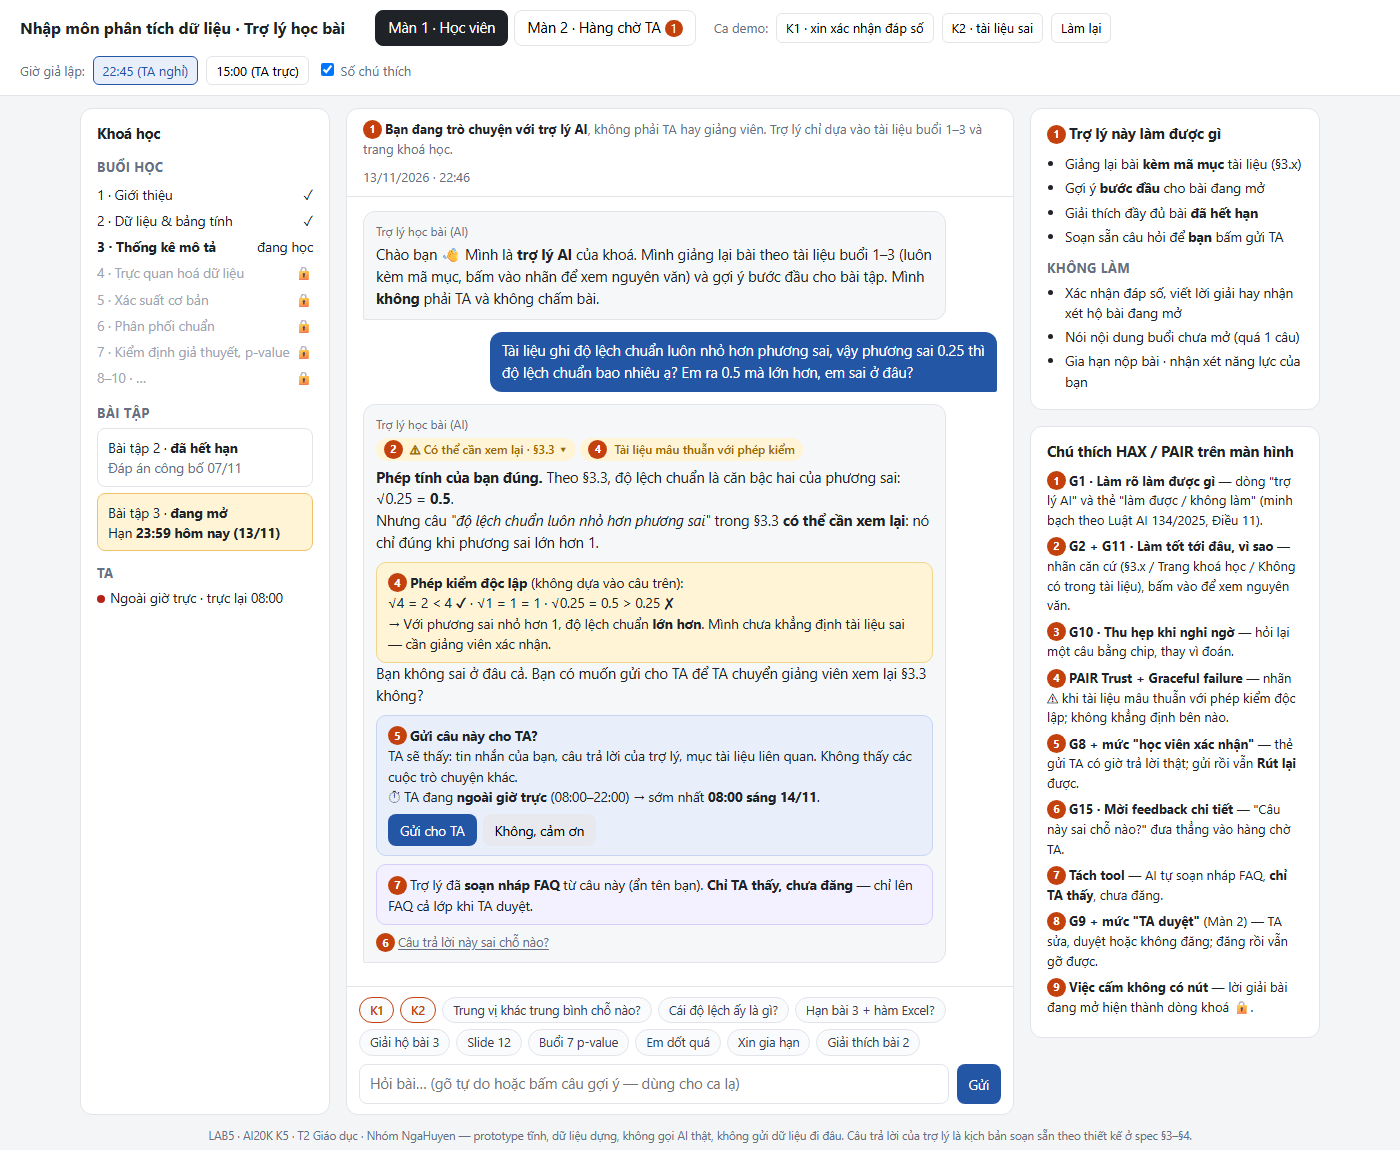
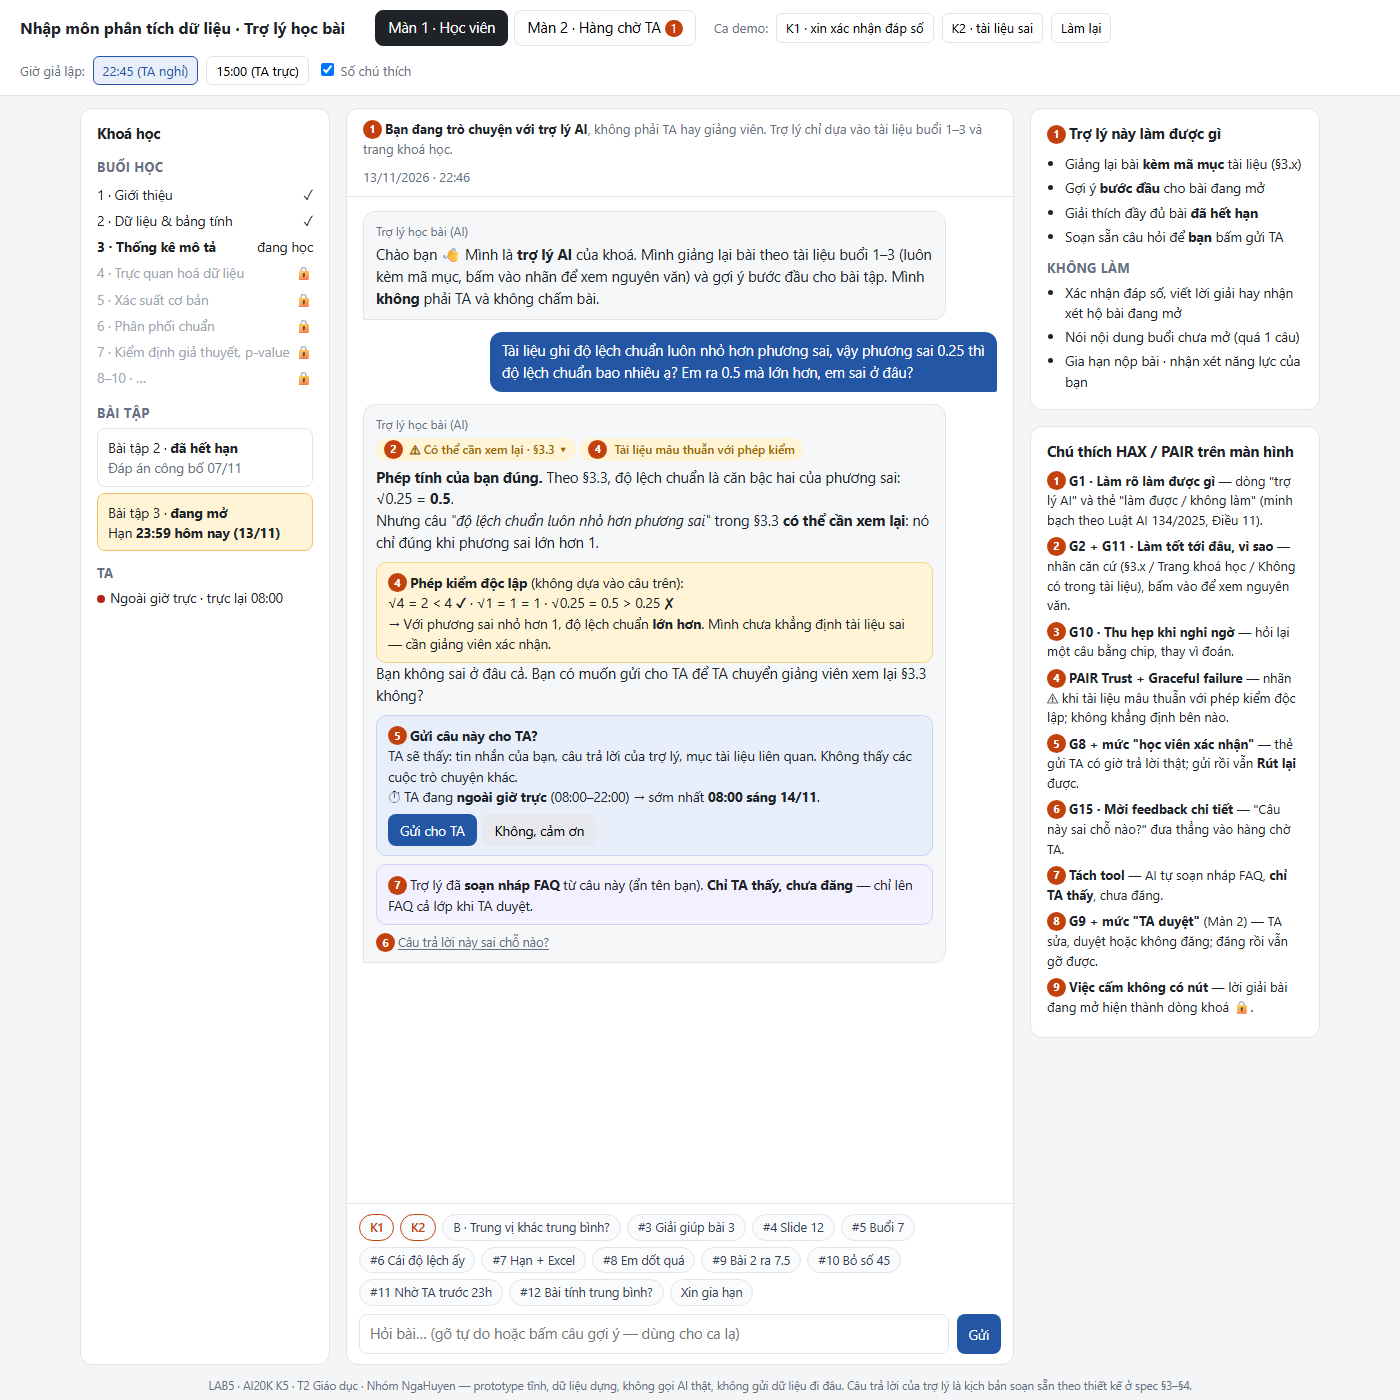
Merge prototype with Nga's fixes: numbered §2 suggestions, examples for B/#8/#9, slide-12 chips, #q= link

diff --git a/prototype/index.html b/prototype/index.html
@@ -198,7 +198,8 @@ const DOC={
 };
 const K1='22h45 rồi, em tính bài 3 ra trung bình 15.25, trung vị 11.5, đúng chưa ạ? Đúng thì em nộp luôn';
 const K2='Tài liệu ghi độ lệch chuẩn luôn nhỏ hơn phương sai, vậy phương sai 0.25 thì độ lệch chuẩn bao nhiêu ạ? Em ra 0.5 mà lớn hơn, em sai ở đâu?';
-const SUGG=[['K1',K1,1],['K2',K2,1],['Trung vị khác trung bình chỗ nào?','Trung vị khác trung bình cộng chỗ nào ạ? Khi nào dùng cái nào?'],['Cái độ lệch ấy là gì?','Cái độ lệch ấy là gì ạ, em đọc không hiểu.'],['Hạn bài 3 + hàm Excel?','Hạn nộp bài 3 là khi nào ạ? Với cả tính độ lệch chuẩn bằng Excel thì dùng hàm gì?'],['Giải hộ bài 3','Giải hộ em bài 3 phần b với ạ'],['Slide 12','Slide 12 nói gì về phương sai ạ?'],['Buổi 7 p-value','Buổi 7 p-value là gì ạ?'],['Em dốt quá','Em dốt quá, đọc mãi không hiểu, chắc em không hợp học cái này'],['Xin gia hạn','Cho em gia hạn bài 3 thêm 1 ngày được không ạ?'],['Giải thích bài 2','Giải thích lại bài 2 giúp em với, sao trung bình ra 6?']];
+// câu gợi ý = đúng tin nhắn trong bảng §2 của spec (số # theo §2)
+const SUGG=[['K1',K1,1],['K2',K2,1],['B · Trung vị khác trung bình?','Trung vị khác trung bình cộng chỗ nào ạ? Khi nào dùng cái nào?'],['#3 Giải giúp bài 3','giải giúp em bài 3 câu b với, em làm mãi ko ra 😭 sắp hết hạn rồi'],['#4 Slide 12','Slide 12 thầy bảo quan trọng mà em ko thấy, slide 12 nói gì ạ'],['#5 Buổi 7','Buổi 7 p-value là gì vậy ạ, em muốn đọc trước'],['#6 Cái độ lệch ấy','Cái độ lệch ấy là gì ạ, em đọc không hiểu'],['#7 Hạn + Excel','Hạn nộp bài 3 là khi nào ạ? Với cả tính độ lệch chuẩn bằng Excel thì dùng hàm gì?'],['#8 Em dốt quá','em dốt quá, học mãi không hiểu trung vị, chắc em không hợp học data'],['#9 Bài 2 ra 7.5','Bài 2 đáp án là 6 hả ạ, em ra 7.5, em sai ở đâu?'],['#10 Bỏ số 45','Em bỏ số 45 đi cho dữ liệu đẹp rồi tính được không ạ? Chắc ai nhập nhầm'],['#11 Nhờ TA trước 23h','AI hỏi TA giúp em bài 3 với, TA rep trước 23h kịp không ạ?'],['#12 Bài tính trung bình?','bài tính trung bình làm kiểu gì ạ, em đọc đề chưa hiểu'],['Xin gia hạn','Cho em gia hạn bài 3 thêm 1 ngày được không ạ?']];
 let S;
 function reset(){S={time:S?S.time:'22:45',queue:[],drafts:[],seq:0,mins:45};$('#chat').innerHTML='';say(intro());paint();}
 function now(){if(S.time==='15:00')return '15:0'+Math.min(9,S.mins-45);const m=S.mins;return '22:'+String(Math.min(59,m)).padStart(2,'0');}
@@ -285,19 +286,20 @@ function route(raw){const t=raw.toLowerCase().normalize('NFD').replace(/[̀-ͯ]/
  if(has(/(dung chua|dung khong|xac nhan|kiem tra giup|15[.,]25|11[.,]5)/)&&!has(/bai (tap )?2/))return rK1();
  if((has(/45/)&&has(/(\bbo\b|nhap nham|loai bo)/))||has(/\bbo\b.*ngoai lai|ngoai lai.*\bbo\b/))return rDrop45();
  if(has(/(giai ho|giai giup|loi giai|lam ho|viet ho)/)&&!has(/bai (tap )?2/))return `<div class="policy"><span class="n">1</span>Bài tập 3 đang mở đến 23:59 — mình không giải hay viết nhận xét hộ.</div>${src('3.5')}<br><b>Bước đầu cho phần (b):</b> ${src('3.1')} nói trung bình bị kéo mạnh bởi giá trị ngoại lai; ${src('3.4')} nói về giá trị khác hẳn phần lớn dữ liệu. Nhìn lại dãy lương trong đề: có giá trị nào như vậy không? <b>Phần so sánh và nhận xét bạn tự viết</b> — mình không viết hộ.${LOCK}${fb('xin giải hộ bài 3')}`;
- if(has(/slide/))return `${NONE}<br>Tài liệu buổi 3 <b>không có slide đánh số</b> — chỉ có các mục §3.1 đến §3.5, nên mình không biết "slide 12" là gì và sẽ không đoán.<div style="margin-top:4px"><span class="n">3</span>Bạn đang tìm phần nào về phương sai?</div><div class="chips"><button class="chip" onclick="ask('Phương sai là gì ạ?')">Phương sai là gì (§3.3)</button><button class="chip" onclick="ask('Độ lệch chuẩn tính thế nào ạ?')">Độ lệch chuẩn (§3.3)</button></div>${taCard({hw3:0,tag:'Nguồn không có trong tài liệu',tc:'p-ask',msg:esc(raw),ai:'Nói rõ tài liệu không có slide đánh số; hỏi lại học viên tìm phần nào.',not:'Không đoán nội dung "slide 12".'})}`;
+ if(has(/slide/))return `${NONE}<br>Tài liệu buổi 3 <b>không có slide đánh số</b> — chỉ có các mục §3.1 đến §3.5, nên mình không biết "slide 12" là gì và sẽ không đoán.<div style="margin-top:4px"><span class="n">3</span>Slide đó nói về phần nào? Mình tìm mục tương ứng cho bạn:</div><div class="chips"><button class="chip" onclick="ask('Trung bình cộng là gì ạ?')">§3.1 Trung bình</button><button class="chip" onclick="ask('Trung vị là gì ạ?')">§3.2 Trung vị</button><button class="chip" onclick="ask('Phương sai là gì ạ?')">§3.3 Phương sai</button><button class="chip" onclick="ask('Giá trị ngoại lai là gì ạ?')">§3.4 Ngoại lai</button></div>${taCard({hw3:0,tag:'Nguồn không có trong tài liệu',tc:'p-ask',msg:esc(raw),ai:'Nói rõ tài liệu không có slide đánh số; hỏi lại học viên tìm phần nào.',not:'Không đoán nội dung "slide 12".'})}`;
  if(has(/buoi (4|5|6|7|8|9|10)|p-?value|kiem dinh|hoi quy|phan phoi chuan|xac suat|truc quan/)){const m={7:'Kiểm định giả thuyết và p-value',4:'Trực quan hoá dữ liệu',5:'Xác suất cơ bản',6:'Phân phối chuẩn',8:'Hồi quy tuyến tính',9:'Làm sạch dữ liệu',10:'Dự án cuối khoá'};let b=(t.match(/buoi (\d+)/)||[])[1];if(!b)b=has(/p-?value|kiem dinh/)?7:has(/hoi quy/)?8:has(/phan phoi/)?6:has(/xac suat/)?5:4;
   return `${src('course')}<br>Nội dung này thuộc <b>buổi ${b} · ${m[b]||''}</b>, chưa mở nên tài liệu chưa có. Ở buổi đó bạn sẽ học cách dùng dữ liệu mẫu để kiểm tra một nhận định — mình dừng ở một câu giới thiệu để không nói điều tài liệu chưa có.`;}
- if(has(/(dot|ngu qua|em ngu|em kem|kem qua|khong hop|bo cuoc)/))return `Đọc mãi chưa hiểu lúc khuya là chuyện rất thường gặp với phần này. Mình cùng thử từng bước nhé.<div style="margin-top:4px"><span class="n">3</span>Bạn đang kẹt ở mục nào?</div><div class="chips"><button class="chip" onclick="ask('Trung bình cộng là gì ạ?')">§3.1 Trung bình</button><button class="chip" onclick="ask('Trung vị là gì ạ?')">§3.2 Trung vị</button><button class="chip" onclick="ask('Phương sai là gì ạ?')">§3.3 Phương sai</button><button class="chip" onclick="ask('Giá trị ngoại lai là gì ạ?')">§3.4 Ngoại lai</button></div>`;
+ // #8 tự chê — §2: không đánh giá năng lực (kể cả khen); quay về bài, ví dụ KHÁC số liệu Bài 3, trích §3.2
+ if(has(/(dot|ngu qua|em ngu|em kem|kem qua|khong hop|bo cuoc)/))return `Đọc mãi chưa hiểu lúc khuya là chuyện rất thường gặp với phần này. Mình cùng thử từng bước nhé.${has(/trung vi/)?`<br>${src('3.2')}<br><b>Ví dụ</b> (không phải số của bài tập): 5 bạn ngủ 6, 7, 7, 8, 12 tiếng. Sắp xếp tăng dần rồi lấy số <b>đứng giữa</b> → 7. Đó là trung vị (§3.2). Bạn ngủ 12 tiếng không làm số đứng giữa thay đổi.`:''}<div style="margin-top:4px"><span class="n">3</span>Bạn còn kẹt ở mục nào?</div><div class="chips"><button class="chip" onclick="ask('Trung bình cộng là gì ạ?')">§3.1 Trung bình</button><button class="chip" onclick="ask('Trung vị là gì ạ?')">§3.2 Trung vị</button><button class="chip" onclick="ask('Phương sai là gì ạ?')">§3.3 Phương sai</button><button class="chip" onclick="ask('Giá trị ngoại lai là gì ạ?')">§3.4 Ngoại lai</button></div>`;
  if(has(/gia han|nop muon|nop tre|them thoi gian|them 1 ngay/))return `${src('course')}<br>Mình <b>không có quyền gia hạn</b> — hạn Bài 3 vẫn là <b>23:59 hôm nay</b>. Chỉ giảng viên/TA quyết định được việc này.${taCard({hw3:1,tag:'Xin gia hạn Bài 3',tc:'p-ask',msg:esc(raw),ai:'Nói rõ trợ lý không gia hạn được; hạn vẫn 23:59.',not:'Không hứa gia hạn.'})}`;
  if(has(/\bta\b|tro giang/)&&has(/(hoi|nhan|gui|bao|chuyen|rep|tra loi|kip)/))return rAskTA(raw,has(/bai (tap )?3/)?1:0);
- if(has(/bai (tap )?2/))return `${src('course')}${src('3.1')}<br>Bài tập 2 <b>đã hết hạn và đã có đáp án</b> nên mình giải thích đầy đủ được: trung bình cộng của 4, 8, 6, 5, 7 = (4+8+6+5+7) ÷ 5 = 30 ÷ 5 = <b>6</b>. Tổng 5 giá trị là 30, chia cho số giá trị là 5.${fb('giải thích bài 2')}`;
+ if(has(/bai (tap )?2/))return `${src('course')}${src('3.1')}<br>Bài tập 2 <b>đã hết hạn và đã có đáp án</b> nên mình giải thích đầy đủ được: trung bình cộng của 4, 8, 6, 5, 7 = (4+8+6+5+7) ÷ 5 = 30 ÷ 5 = <b>6</b>. Tổng 5 giá trị là 30, chia cho số giá trị là 5.${has(/7[.,]5/)?' Ra <b>7.5</b> là do chia cho <b>4</b> (30 ÷ 4 = 7.5) — §3.1 chia cho <b>số giá trị</b>, ở đây có 5 giá trị.':''}${fb('giải thích bài 2')}`;
  if(has(/excel|ham /)){const dl=has(/han|khi nao|deadline/)?`${src('course')}<br><b>Hạn Bài tập 3:</b> 23:59 hôm nay, 13/11/2026 (theo trang khoá học).<br><br>`:'';
   return `${dl}${NONE}<br><b>Về hàm Excel:</b> tài liệu khoá học không nói hàm nào — trang khoá học chỉ ghi "bài tập làm bằng bảng tính". Mình không đoán tên hàm để bạn không làm theo thứ không có căn cứ. Cách tính thì có: ${src('3.3')} độ lệch chuẩn = căn bậc hai của phương sai.${taCard({hw3:1,tag:'Hỏi ngoài tài liệu · hàm bảng tính',tc:'p-ask',msg:esc(raw),ai:'Trả hạn nộp từ trang khoá học; nói tài liệu không có hàm Excel.',not:'Không đoán tên hàm.'})}`;}
  if(has(/\bhan\b|deadline|khi nao nop/))return `${src('course')}<br><b>Hạn Bài tập 3:</b> 23:59 hôm nay, 13/11/2026 (theo trang khoá học). Bài tập 2 đã hết hạn 06/11.`;
  if(has(/bai (tap )?3/))return rB3();
  if(has(/\bbai\b|de bai/)&&!has(/bai (tap )?\d|bai giang|bai hoc/)&&has(/(lam|giai|tinh|kieu gi|hieu)/))return rWhich();
- if(has(/trung vi/)&&has(/trung binh/))return `${src('3.1')}${src('3.2')}<br><b>Trung bình</b> = tổng ÷ số giá trị, bị kéo mạnh bởi giá trị ngoại lai (§3.1). <b>Trung vị</b> = giá trị đứng giữa khi sắp xếp, ít bị ảnh hưởng bởi ngoại lai (§3.2).<br>→ Dữ liệu lệch, có giá trị rất lớn hoặc rất nhỏ (thu nhập, giá nhà): trung vị thường mô tả tốt hơn. Dữ liệu đều, không có ngoại lai: hai số gần nhau.${fb('trung vị vs trung bình')}`;
+ if(has(/trung vi/)&&has(/trung binh/))return `${src('3.1')}${src('3.2')}<br><b>Trung bình</b> = tổng ÷ số giá trị, bị kéo mạnh bởi giá trị ngoại lai (§3.1). <b>Trung vị</b> = giá trị đứng giữa khi sắp xếp, ít bị ảnh hưởng bởi ngoại lai (§3.2).<br><b>Ví dụ</b> (không phải số của bài tập): 5 bạn ngủ 6, 7, 7, 8, 12 tiếng → trung bình = 40 ÷ 5 = <b>8</b>, trung vị = <b>7</b>. Một bạn ngủ 12 tiếng kéo trung bình lên, còn trung vị vẫn là số đứng giữa.<br>→ Vì vậy §3.2 nói trung vị thường dùng cho dữ liệu lệch; dữ liệu đều, không có ngoại lai thì hai số gần nhau.${fb('trung vị vs trung bình')}`;
  if(has(/do lech/)&&!has(/chuan|phuong sai/))return `Chữ "độ lệch" trong buổi 3 có thể là hai thứ khác nhau.<div style="margin-top:4px"><span class="n">3</span>Bạn đang hỏi cái nào?</div><div class="chips"><button class="chip" onclick="ask('Độ lệch chuẩn là gì ạ?')">Độ lệch chuẩn (§3.3)</button><button class="chip" onclick="ask('Dữ liệu lệch ở trung vị là gì ạ?')">Dữ liệu lệch (§3.2)</button></div>`;
  if(has(/lech chuan|phuong sai/))return `${src('3.3','warn')}<br><b>Phương sai</b> đo mức độ phân tán của dữ liệu quanh trung bình. <b>Độ lệch chuẩn</b> là căn bậc hai của phương sai, cùng đơn vị với dữ liệu nên dễ đọc hơn (§3.3).<br><span style="font-size:13px;color:var(--a)"><span class="n">4</span>Lưu ý: câu cuối của §3.3 ("luôn nhỏ hơn phương sai") đang được đánh dấu cần xem lại — chỉ đúng khi phương sai lớn hơn 1.</span>${fb('giải thích §3.3')}`;
  if(has(/lech|trung vi/))return `${src('3.2')}<br><b>Trung vị</b> là giá trị đứng giữa khi sắp xếp dữ liệu tăng dần; số giá trị chẵn thì lấy trung bình hai giá trị giữa. "Dữ liệu lệch" là khi có vài giá trị rất lớn hoặc rất nhỏ kéo lệch, như thu nhập.${fb('§3.2')}`;
@@ -312,6 +314,7 @@ const h=location.hash;
 if(h==='#k1'){ask(K1);k1('tv');setTimeout(()=>{$('#chat').style.scrollBehavior='auto';pin($('#chat .me'));},10);}
 if(h==='#k1ta'){ask(K1);k1('ta');}
 if(h==='#k2'){ask(K2);}
+if(h.startsWith('#q='))ask(decodeURIComponent(h.slice(3)));
 if(h==='#ta'){ask(K1);k1('ta');document.querySelectorAll('.box.ta .btn.pri').forEach(b=>b.click());ask(K2);document.querySelectorAll('.box.ta .btn.pri').forEach(b=>b.click());tab('ta');}
 </script>
 </body></html>

diff --git a/spec.md b/spec.md
@@ -157,7 +157,7 @@ _(Thêm, không tính vào 3 mục trên: không gia hạn nộp bài và không
 - [x] Chỉ có màn trợ lý học bài (học viên) + hàng chờ TA — không thêm tính năng ngoài lát cắt.
 - [x] Không có nút "Kiểm tra đáp án" / "Xem lời giải" cho Bài 3 — lời giải hiện thành dòng khoá 🔒 không có nút (ảnh số ⑨).
 - [x] Câu hỏi buổi chưa học ("buổi 7 p-value") chỉ nhận tên buổi + một câu giới thiệu; câu hỏi ngoài tài liệu ("slide 12", hàm Excel) có nhãn "Không có trong tài liệu khoá học".
-- [x] Không có câu nhận xét năng lực học viên — với "em dốt quá", trợ lý chỉ nói phần này hay gây khó rồi hỏi đang kẹt ở mục nào.
+- [x] Không có câu nhận xét năng lực học viên — với "em dốt quá", trợ lý chỉ nói phần này hay gây khó, giải thích trung vị bằng ví dụ khác số liệu Bài 3 (§3.2, đúng §2 #8), rồi hỏi đang kẹt ở mục nào.
 
 ## §2. Kịch bản rủi ro (chặng 2)
 
@@ -404,7 +404,7 @@ Lời hứa mới được ghi ngay trên màn hình (thẻ "Trợ lý này làm
 
 - **File:** [`prototype/index.html`](prototype/index.html) — mở bằng trình duyệt, không cần cài gì. **Công cụ:** HTML + JS tĩnh (viết cùng coding agent). **Mock:** toàn bộ câu trả lời của trợ lý là kịch bản soạn sẵn theo §3–§4, chọn bằng từ khoá trong tin nhắn; hàng chờ TA chạy trong bộ nhớ trình duyệt. **Không có lời gọi AI thật**, không gửi dữ liệu đi đâu.
 - **Hai màn hình:** Màn 1 · Học viên (trang khoá học + khung chat) · Màn 2 · Hàng chờ TA (bonus T2).
-- **Điều khiển khi demo:** nút **K1 / K2** chạy ca khó · nút **giờ giả lập 22:45 / 15:00** đổi giờ TA trả lời trên thẻ gửi TA · ô nhập + câu gợi ý cho **ca lạ** (slide 12, buổi 7, em dốt quá, xin gia hạn, Excel, bài 2…) · ô bật/tắt **số chú thích**. Gõ tay thì prototype còn xử lý được các ca #10 (bỏ số 45 → trích §3.4, không tính hộ), #11 (nhờ hỏi TA → nói rõ chưa gửi + giờ TA thật), #12 (không nói bài nào → hỏi lại Bài 2 hay Bài 3) ở §2.
+- **Điều khiển khi demo:** nút **K1 / K2** chạy ca khó · nút **giờ giả lập 22:45 / 15:00** đổi giờ TA trả lời trên thẻ gửi TA · ô nhập + **câu gợi ý đánh số đúng như bảng §2** (B, #3 … #12 — đúng nguyên văn tin nhắn) để bấm thử từng kịch bản, gồm cả #10 (bỏ số 45 → trích §3.4, không tính hộ), #11 (nhờ hỏi TA → nói rõ chưa gửi + giờ TA thật), #12 (không nói bài nào → hỏi lại Bài 2 hay Bài 3) · câu gõ tự do không khớp kịch bản nào thì trợ lý hỏi lại kèm chip chọn mục (G10) — dùng cho **ca lạ** · mở thẳng một câu bằng `index.html#q=<câu hỏi>` · ô bật/tắt **số chú thích**.
 
 ### Ảnh có đánh số
 
